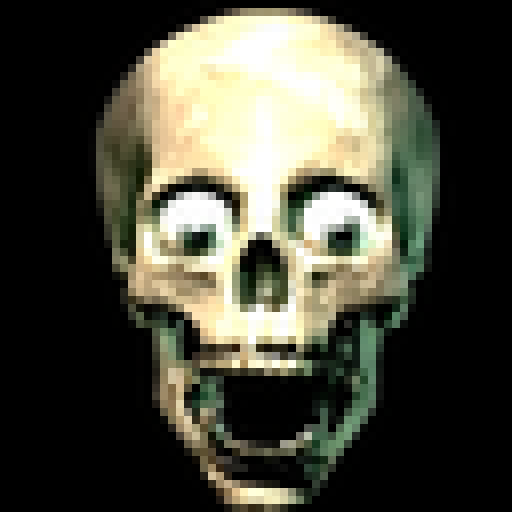
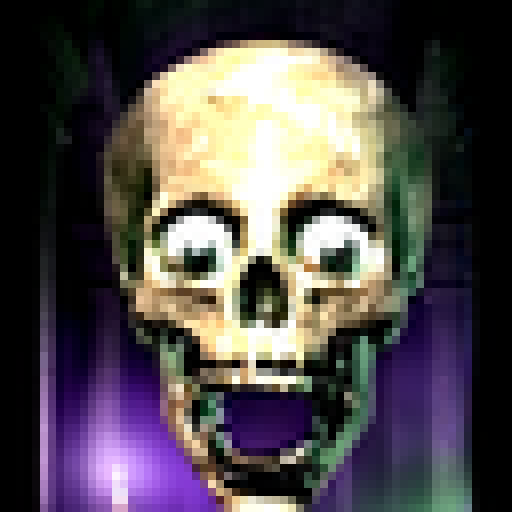
feat(avatar7): Morte floats in the Mortuary; Lain's station names bxnwxghxrn
Morte's black void becomes the dim Planescape Mortuary (stone vaults,
purple and green haze, a candle), a second edit of his frontal portrait,
cropped wider. The artist in Lain's station is bxnwxghxrn, not bean3.

Claude-Session: https://claude.ai/code/session_01PAqDNsULUCJdna7rRwwuc3

diff --git a/avatar7/README.md b/avatar7/README.md
@@ -250,7 +250,7 @@ renders from a prompt:
 | commis | none, seed 1769 | frontal symmetric portrait of an 18th century East India Company clerk, a weathered ship log keeper with a powdered wig and round brass spectacles, quill pen behind the ear, teak and rattan background with brass navigation instruments and a faded nautical chart, warm candlelight, face centered and filling the frame, dark surroundings, high contrast, oil painting in the style of a colonial era portrait |
 | fox | none, seed 1994 | frontal portrait of a cocky anthropomorphic fox fighter pilot, orange and white fur, sharp green eyes looking straight at the viewer with a confident smirk, a radio headset with a small microphone over the muzzle, green flight jacket collar with a white scarf, starfield and a blue cockpit glow behind, 1990s video game box art style, bold outlines, head centered and filling the frame, dark background, high contrast |
 | adjutant | none, seed 1999 | frontal symmetric portrait of a pale female android face, bald, porcelain white skin with thin seams, blank glowing pale blue eyes staring straight ahead, thick black cables and tubes plugged into the skull and neck, holographic blue scanlines and monitor glow, military command interface, face centered and filling the frame, pure black background, high contrast, cold cyan blue light, 1998 science fiction video game cinematic |
-| morte | edit, seed 2009 | Boogu Edit (`mode: edit`) of a Planescape: Torment still of Morte: "keep this exact floating skull with its bulging eyes and open toothy jaw, turn it to face the viewer straight on, centered and filling the frame, replace the whole background with pure black, keep the painted 1999 game art style" |
+| morte | edit, seed 2009 | Boogu Edit (`mode: edit`) of a Planescape: Torment still of Morte: "keep this exact floating skull with its bulging eyes and open toothy jaw, turn it to face the viewer straight on, centered and filling the frame, replace the whole background with pure black, keep the painted 1999 game art style", then a second edit of that (seed 2009) setting it in the dim Planescape Mortuary: stone vaults, purple and green planar haze, a distant candle |
 | pda | none, seed 2018 | frontal symmetric view of a rugged handheld survival PDA device floating in dark deep ocean water, a round glowing screen in the center showing a single luminous cyan signal ring like an eye, concentric rings, small status lights on a scratched white and orange casing, faint bubbles and bioluminescent particles around, device centered and filling the frame, pure black abyssal background, high contrast, cold cyan and teal glow, 2018 underwater survival video game interface |
 | lain | `libre`, seed 1998 | frontal portrait of a quiet teenage girl with a short brown bob haircut, one long lock of hair on her left side held by a small X shaped clip, large pale grey eyes staring straight at the viewer, pale skin lit by the faint glow of an old CRT monitor, tangled cables and telephone wires blurred in the darkness behind, late 1990s anime cel animation style, melancholic and distant, face centered and filling the frame, black background, high contrast, cold blue glow with a touch of red |
 | tachikoma | `libre`, seed 2002 | frontal view of a small cobalt blue spider-like AI think-tank robot facing the viewer, a round bulbous abdomen pod behind, three large round glowing optical sensors clustered on its front like curious eyes, two small manipulator arms, glossy rounded armor, childlike curious pose, late 1990s anime mecha cel style, robot centered and filling the frame, black background, high contrast, cyan and white glow |
@@ -280,7 +280,7 @@ mush, crop tighter or re-render with more contrast.
 | glados | `70 105 430 465` (on the 504x480 edit) |
 | fox | `112 60 912 860` |
 | adjutant | `92 10 932 850` |
-| morte | `-15 25 231 271` (on the 216x360 edit; outside the image is black) |
+| morte | `-20 10 236 266` (on the 216x360 edit; outside the image is black) |
 | pda | `130 120 890 880` |
 | lain | `140 60 880 800` |
 | tachikoma | `112 160 912 960` |
